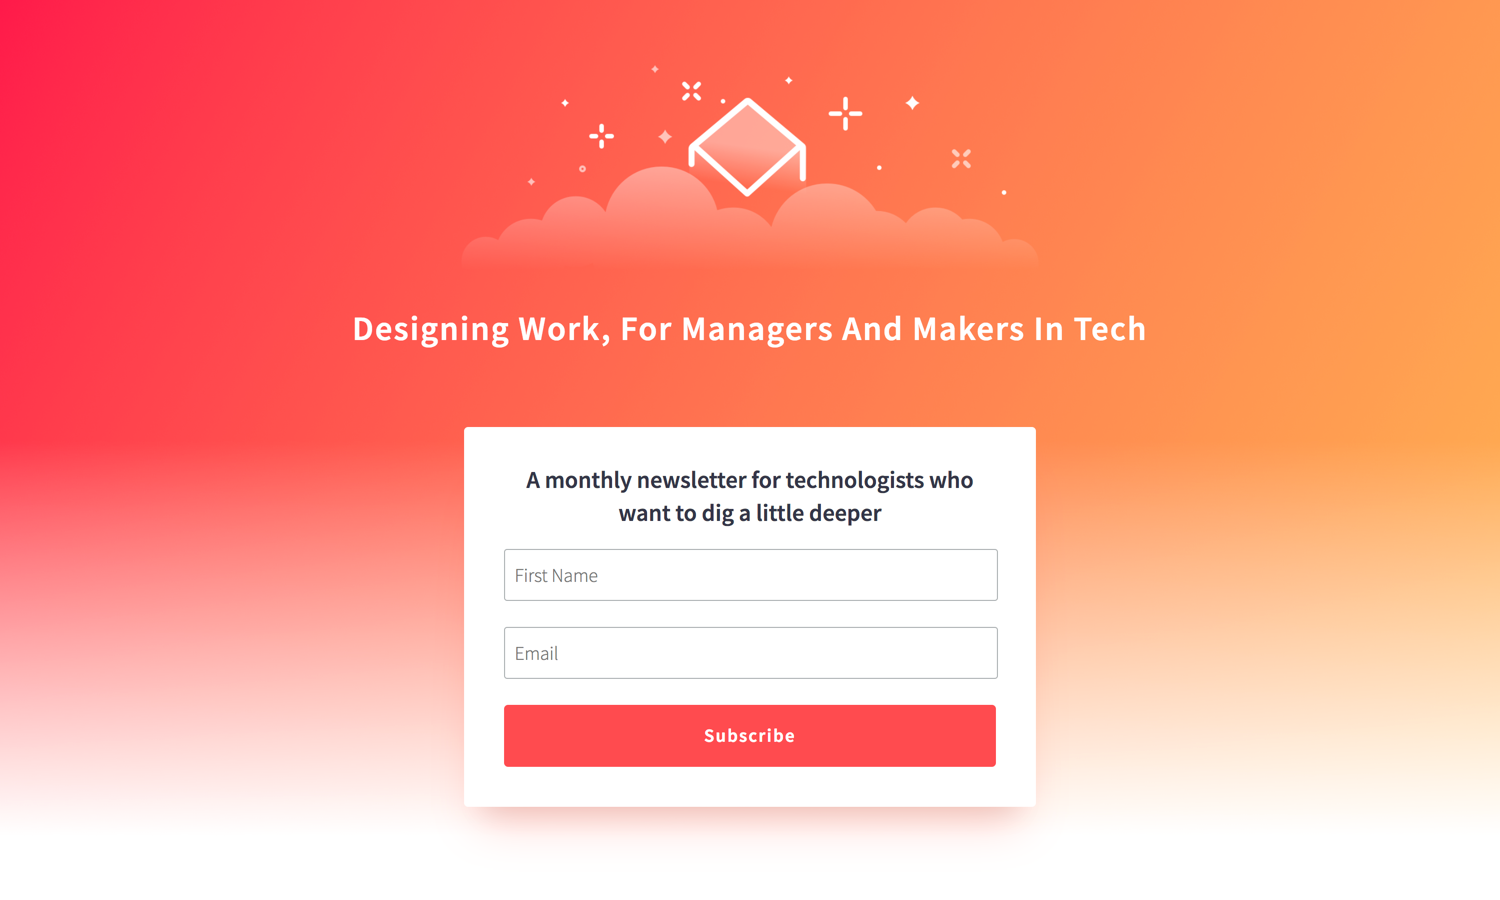
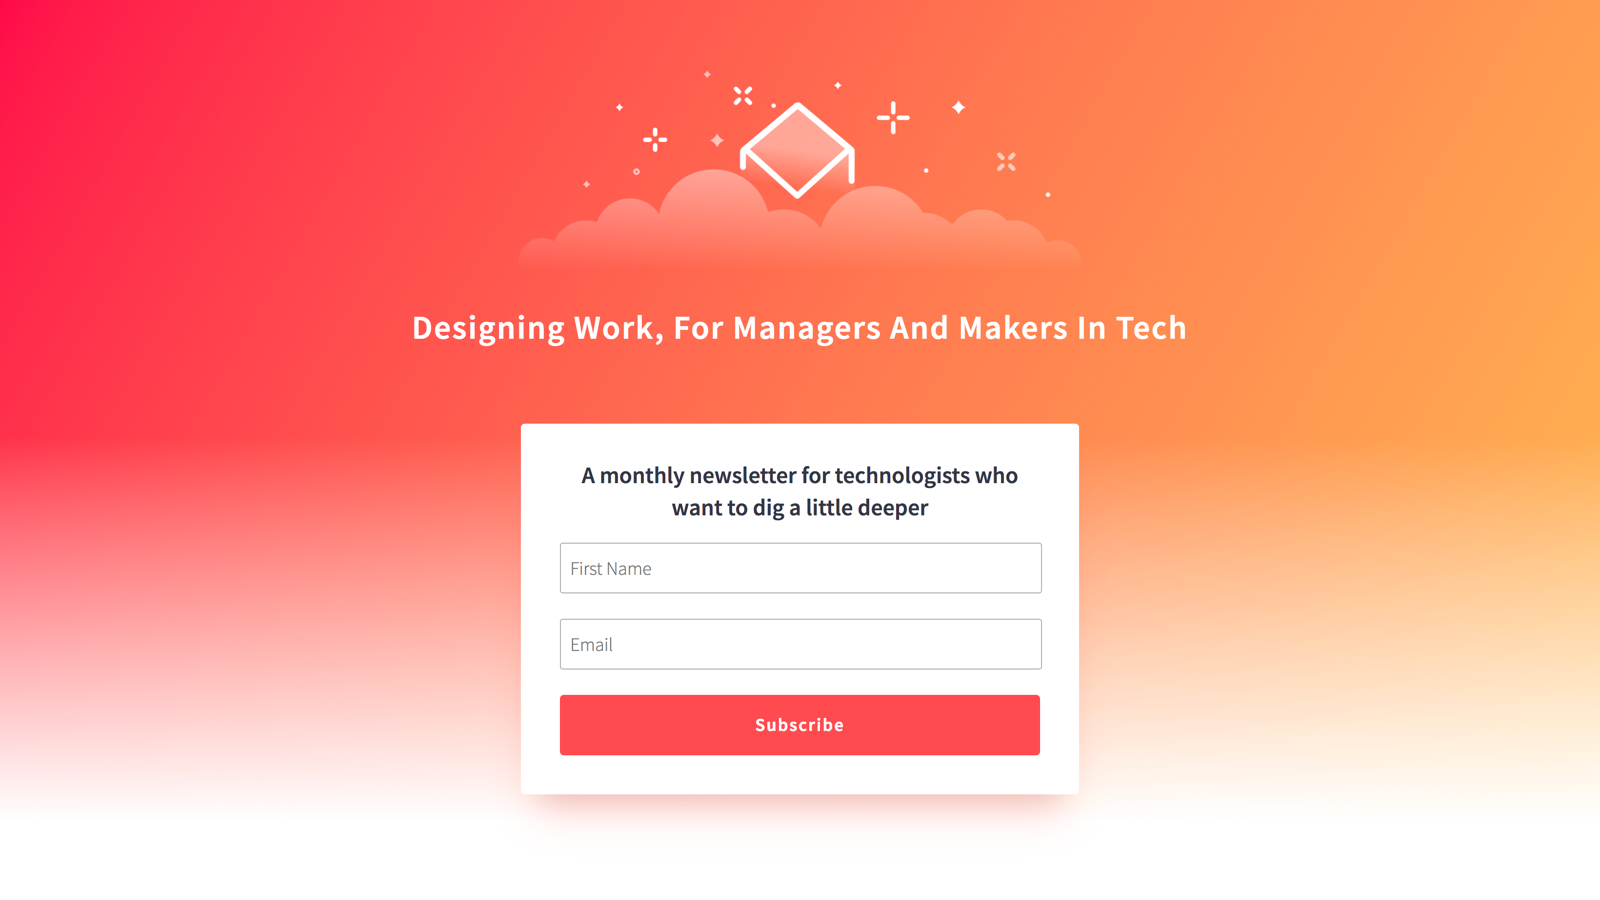
Update og:image

diff --git a/index.html b/index.html
@@ -15,9 +15,9 @@
   <meta property="og:url" content="https://venetucci.github.io/DesigningWork.github.io/" />
   <meta property="og:type" content="website" />
   <meta property="og:title" content="Designing Work" />
-  <meta property="og:description" content="A newsletter for managers and makers in tech who want to dig deeper" />
+  <meta property="og:description" content="A newsletter for managers and makers in tech who want to dig deeper, curated by Michelle" />
   <meta property="og:image" content="https://venetucci.github.io/DesigningWork.github.io/assets/og-image.png" />
-  <meta property="og:image:width" content="750" />
+  <meta property="og:image:width" content="800" />
   <meta property="og:image:height" content="450" />
 </head>
 <body>
